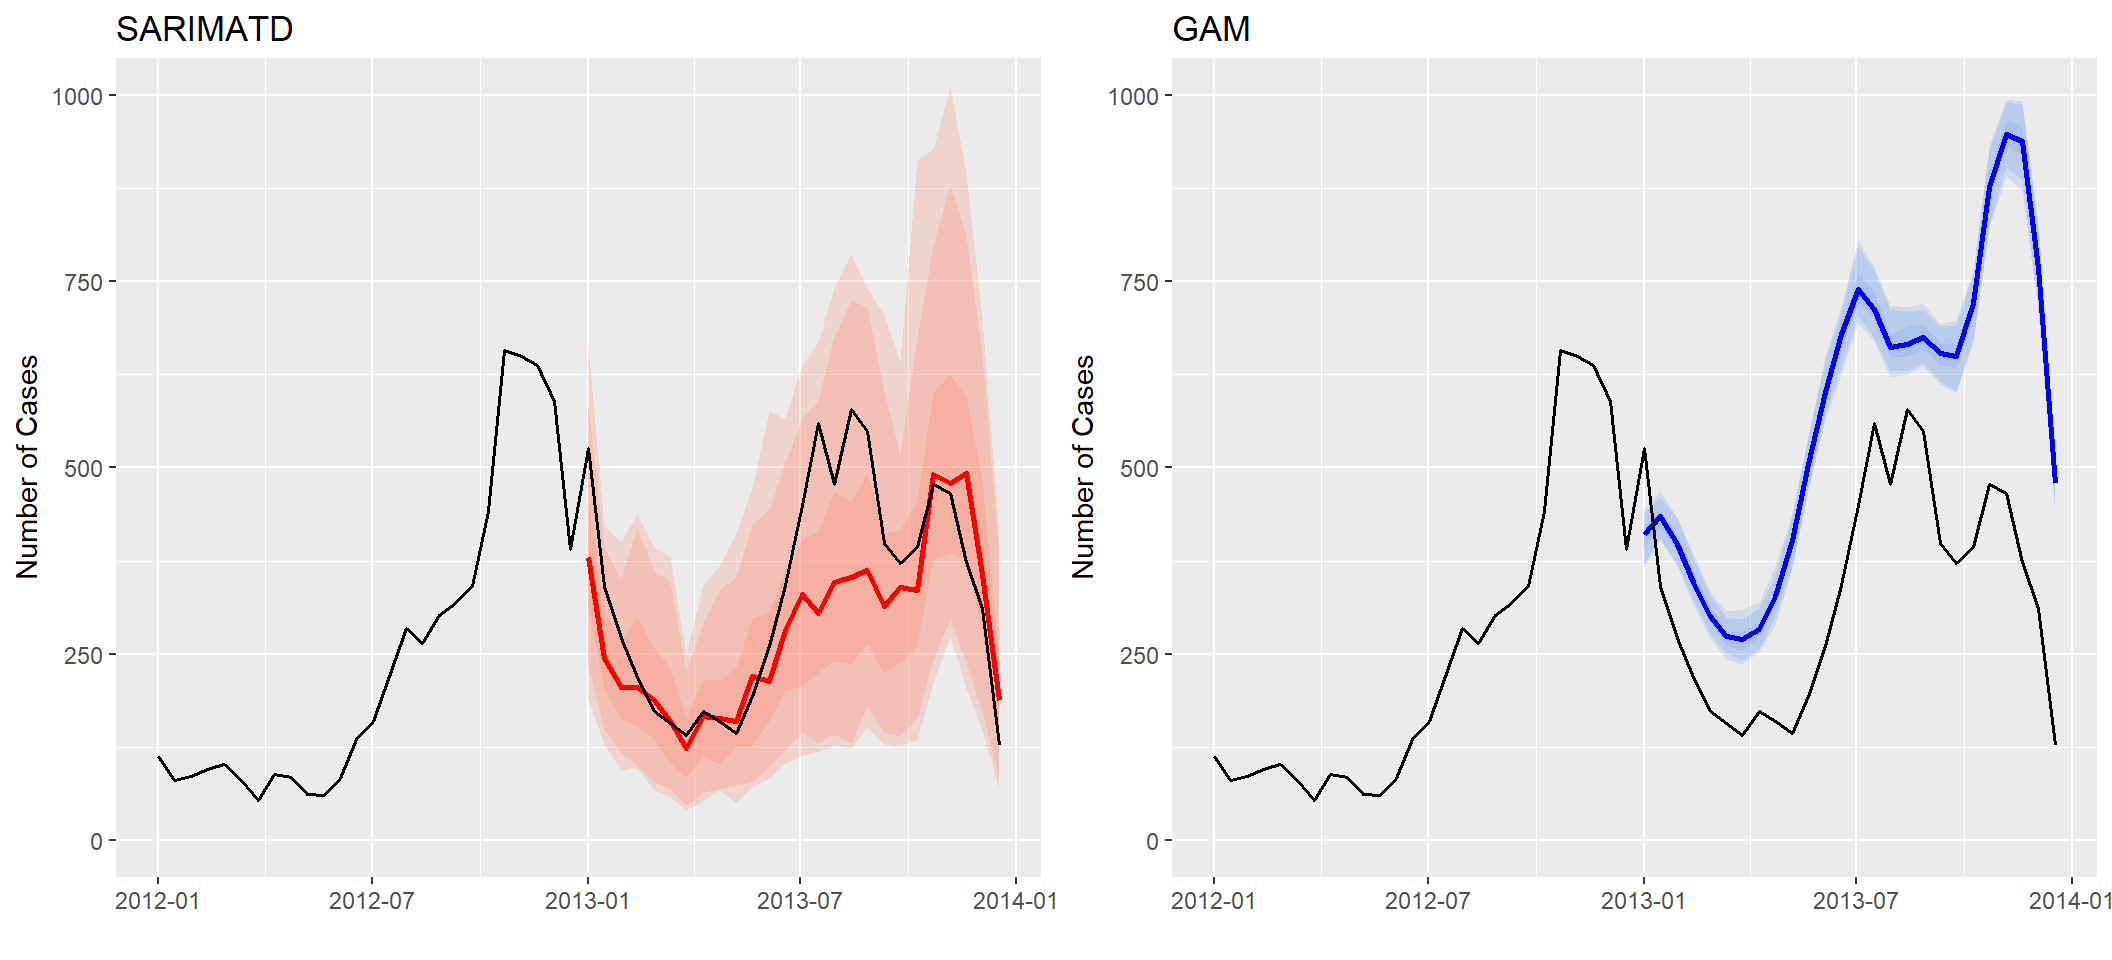
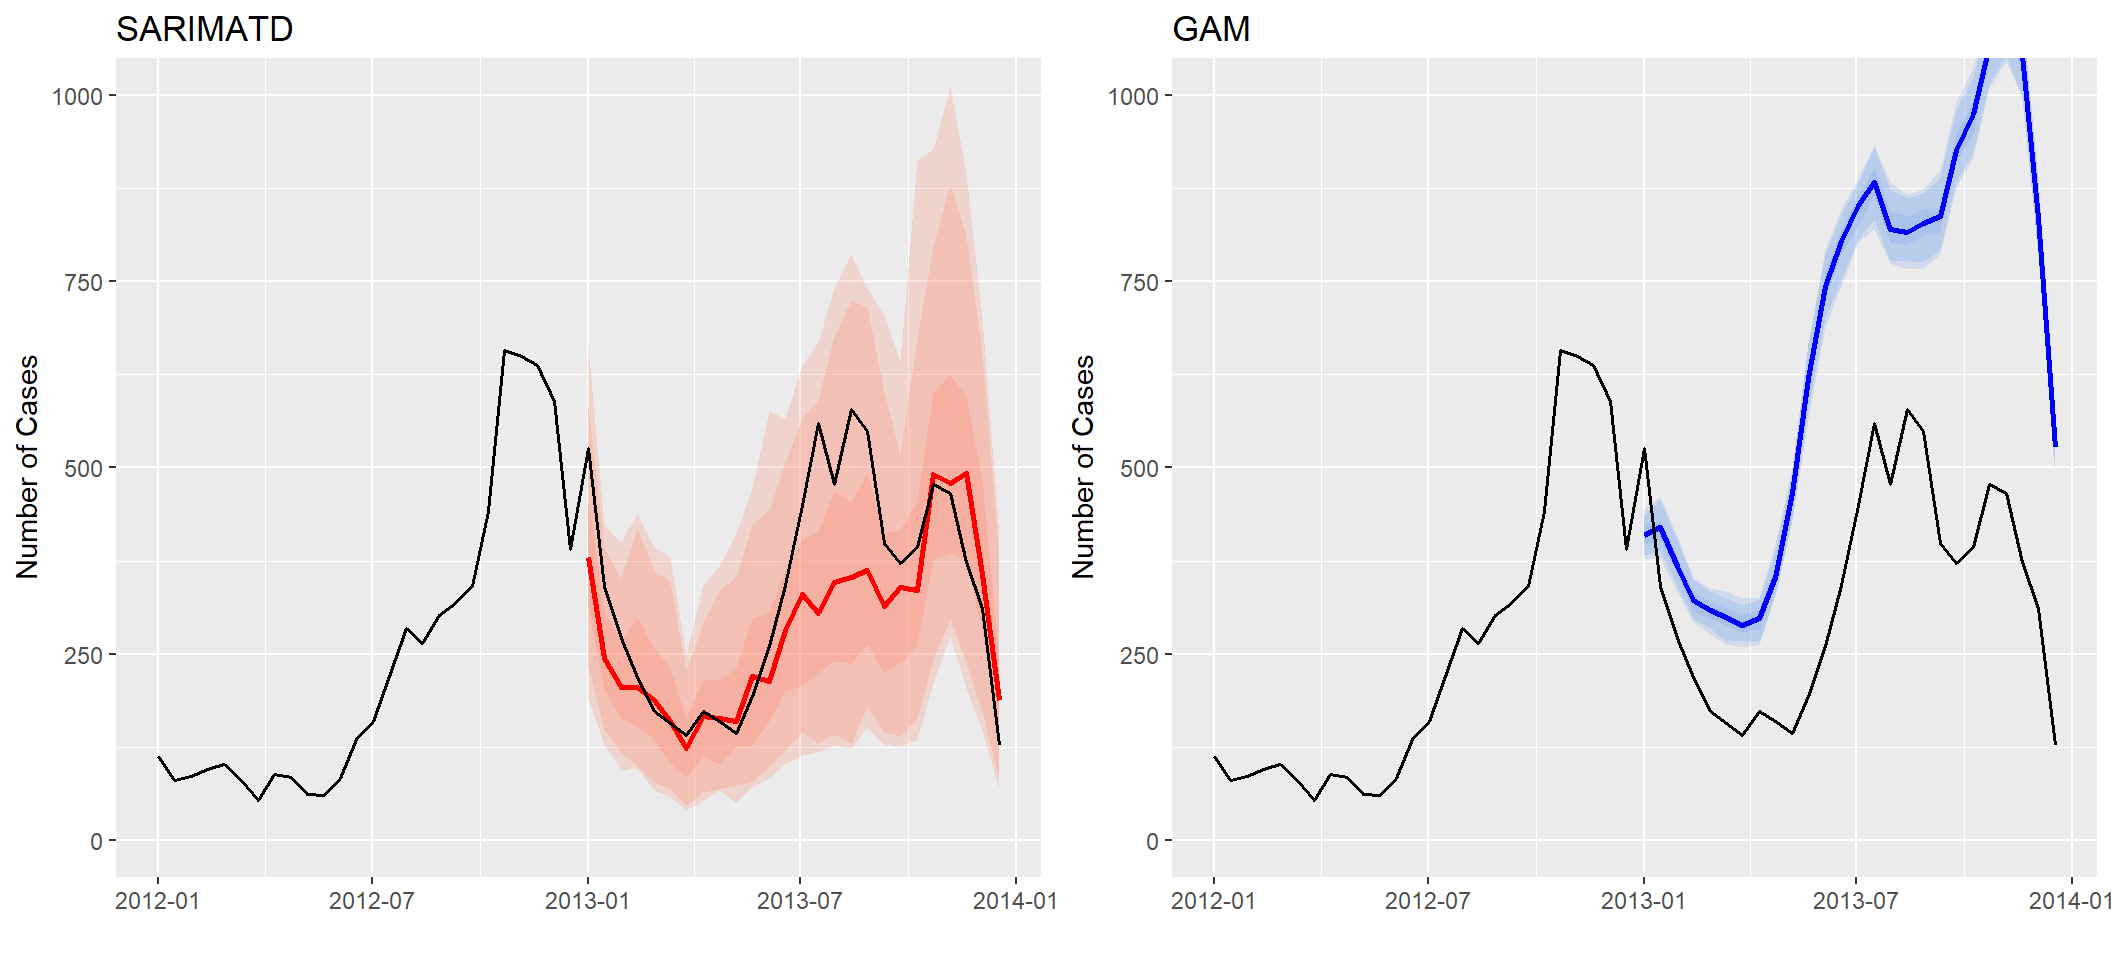
Update sarima plot size

Changed region(s): [[0.7812, 0.0625, 0.9688, 0.6875]]

diff --git a/index.html b/index.html
@@ -363,14 +363,14 @@ steps &lt;-<span class="st"> </span><span class="dv">26</span> <span class="co">
 <h4>5. Formatting the Forecast Output</h4>
 <p>To view the new forecasting data in matrix form, execute the following command:</p>
 <div class="sourceCode"><pre class="sourceCode r"><code class="sourceCode r">forecast_X<span class="op">$</span>data<span class="op">$</span>mat</code></pre></div>
-<pre><code>##           1        2       3        4        5        6        7        8
-## 10 378.3668 300.4381 204.179 151.0655 151.0279 86.55394 98.06152 206.5804
-##           9       10       11       12       13       14       15       16
-## 10 252.4627 542.6661 580.9363 369.9825 410.2498 472.5035 412.7888 245.1828
-##          17       18      19       20       21       22       23       24
-## 10 231.2643 212.9242 166.966 93.61962 92.63251 264.4695 322.6711 320.5983
+<pre><code>##          1        2        3        4        5        6        7        8
+## 10 421.364 310.5878 328.1625 182.7838 110.1469 81.04734 61.05778 42.05863
+##           9       10       11       12       13      14       15       16
+## 10 176.6802 36.38489 109.4452 181.1747 293.9457 292.283 475.9351 304.6238
+##          17       18       19       20       21       22       23       24
+## 10 309.0357 526.8641 472.3367 449.8224 586.9356 641.5018 705.3736 816.1487
 ##          25       26
-## 10 247.1208 306.2267</code></pre>
+## 10 709.8933 640.0368</code></pre>
 <p>Lets convert the forecast matrix to a dataframe in R for easy manipulation:</p>
 <div class="sourceCode"><pre class="sourceCode r"><code class="sourceCode r"><span class="co"># converting predictions to a dataframe to use dplyr</span>
 preds_df &lt;-<span class="st"> </span><span class="kw">data.frame</span>(<span class="kw">as.table</span>(<span class="kw">t</span>(forecast_X<span class="op">$</span>data<span class="op">$</span>mat)))</code></pre></div>
@@ -396,21 +396,21 @@ preds_df[[<span class="st">&quot;date_sick&quot;</span>]] &lt;-<span class="kw">
    )
 <span class="kw">print</span>(<span class="kw">head</span>(preds_df,<span class="dv">5</span>)) <span class="co"># Print the first 5 rows</span></code></pre></div>
 <pre><code>##   Var1 Var2     Freq  date_sick pred_total_cases pred_95_lb pred_95_ub
-## 1    1   10 378.3668 2013-01-01         413.7037  223.50575   652.8774
-## 2    2   10 300.4381 2013-01-15         318.0875  146.98439   555.6058
-## 3    3   10 204.1790 2013-01-29         276.7434  107.27265   540.9934
-## 4    4   10 151.0655 2013-02-12         260.5153   95.25561   533.6375
-## 5    5   10 151.0279 2013-02-26         239.0154   73.29757   513.3128
+## 1    1   10 421.3640 2013-01-01         406.1991  231.80110   630.4926
+## 2    2   10 310.5878 2013-01-15         310.6345  142.85480   542.0431
+## 3    3   10 328.1625 2013-01-29         279.5906  106.25364   528.9722
+## 4    4   10 182.7838 2013-02-12         263.7806   94.49549   508.6718
+## 5    5   10 110.1469 2013-02-26         236.4479   78.85420   487.4473
 ##   pred_80_lb pred_80_ub pred_50_lb pred_50_ub
-## 1  242.49687   616.3850   341.3182   493.8111
-## 2  167.44855   521.3407   254.0610   394.7683
-## 3  134.29656   493.9358   205.1573   363.3995
-## 4  115.04157   478.6214   194.6559   339.9099
-## 5   91.23731   455.5579   171.0279   313.6420</code></pre>
+## 1  247.15698   599.0145   336.6342   478.5575
+## 2  163.51989   507.0447   247.5443   388.6216
+## 3  131.89279   478.8598   212.0853   357.4497
+## 4  116.37470   473.6273   195.7696   347.5568
+## 5   94.30415   453.8269   168.2205   322.1016</code></pre>
 </div>
 <div id="plot-the-forecast-output" class="section level4">
 <h4>6. Plot the Forecast Output</h4>
-<p>Finally, you are able to plot your SARIMA Forecast! Lets use <code>ggplot2</code> to create a cool plot. ### Bangkok Metropolis SARIMA Forecast <img src="index_files/figure-html/unnamed-chunk-31-1.png" width="1056" /></p>
+<p>Finally, you are able to plot your SARIMA Forecast! Lets use <code>ggplot2</code> to create a cool plot. ### Bangkok Metropolis SARIMA Forecast <img src="index_files/figure-html/unnamed-chunk-31-1.png" width="960" /></p>
 </div>
 </div>
 </div>
@@ -591,22 +591,22 @@ sarimaTD_eval &lt;-<span class="st"> </span><span class="kw">evaluate</span>(for
 <tbody>
 <tr class="odd">
 <td>MAE</td>
-<td align="right">243.3012</td>
+<td align="right">339.2696</td>
 <td align="right">68.21344</td>
 </tr>
 <tr class="even">
 <td>MSE</td>
-<td align="right">76563.7287</td>
+<td align="right">149617.9733</td>
 <td align="right">8299.37115</td>
 </tr>
 <tr class="odd">
 <td>MAPE</td>
-<td align="right">87.8465</td>
+<td align="right">115.5171</td>
 <td align="right">19.16284</td>
 </tr>
 <tr class="even">
 <td>RMSE</td>
-<td align="right">276.7015</td>
+<td align="right">386.8048</td>
 <td align="right">91.10088</td>
 </tr>
 </tbody>
